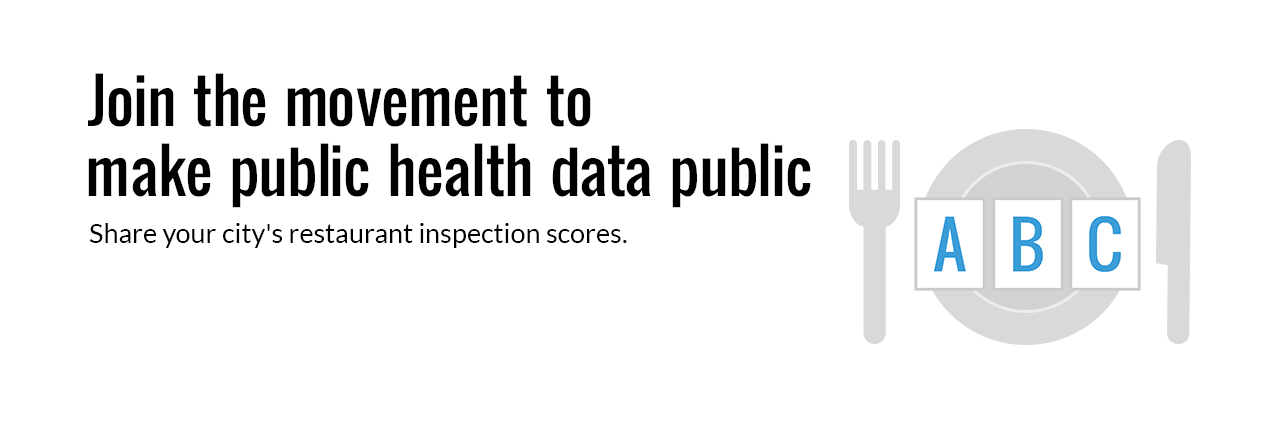
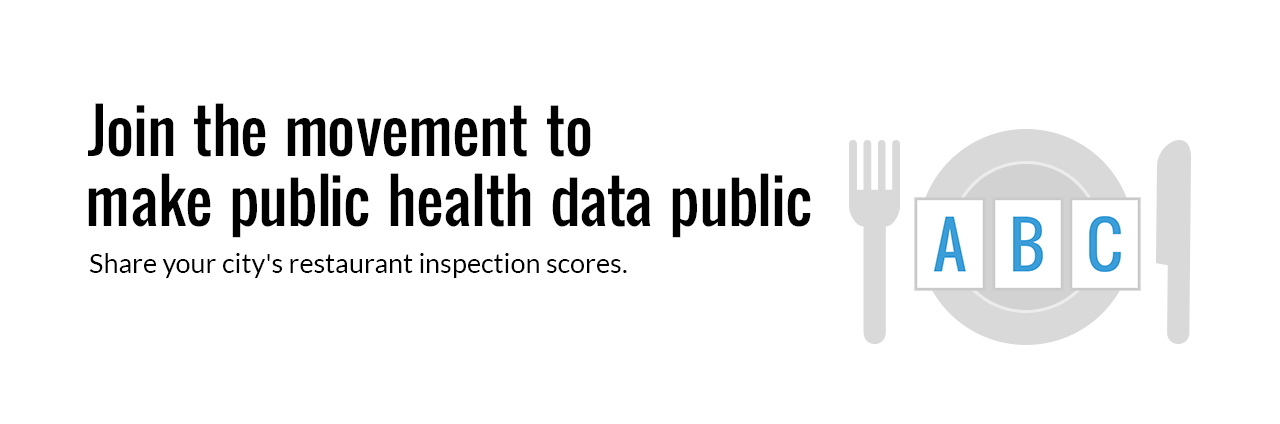
Updated graphic and moved button to the left

Changed region(s): [[0.0625, 0.1533, 0.6562, 0.6439]]

diff --git a/css/style.css b/css/style.css
@@ -128,10 +128,9 @@ ul{
 }
 
 .button {
-	float:right;
-	width:150px;
-	height:40px;
-	font-size: 16px;
+	width:200px;
+	height:50px;
+	font-size: 20px;
 	font-family: 'cabin','lato', 'Helvetica Neue', 'Helvetica Neue Medium', 'HelveticaNeue LT 65 Medium';;
 	text-align:center;
 	font-weight:bold;
@@ -227,8 +226,8 @@ ul{
 
 .Apply {
   position: absolute;
-  right: 210px;
-  bottom: 115px;
+  left: 89px;
+  bottom: 100px;
   
 }
 
